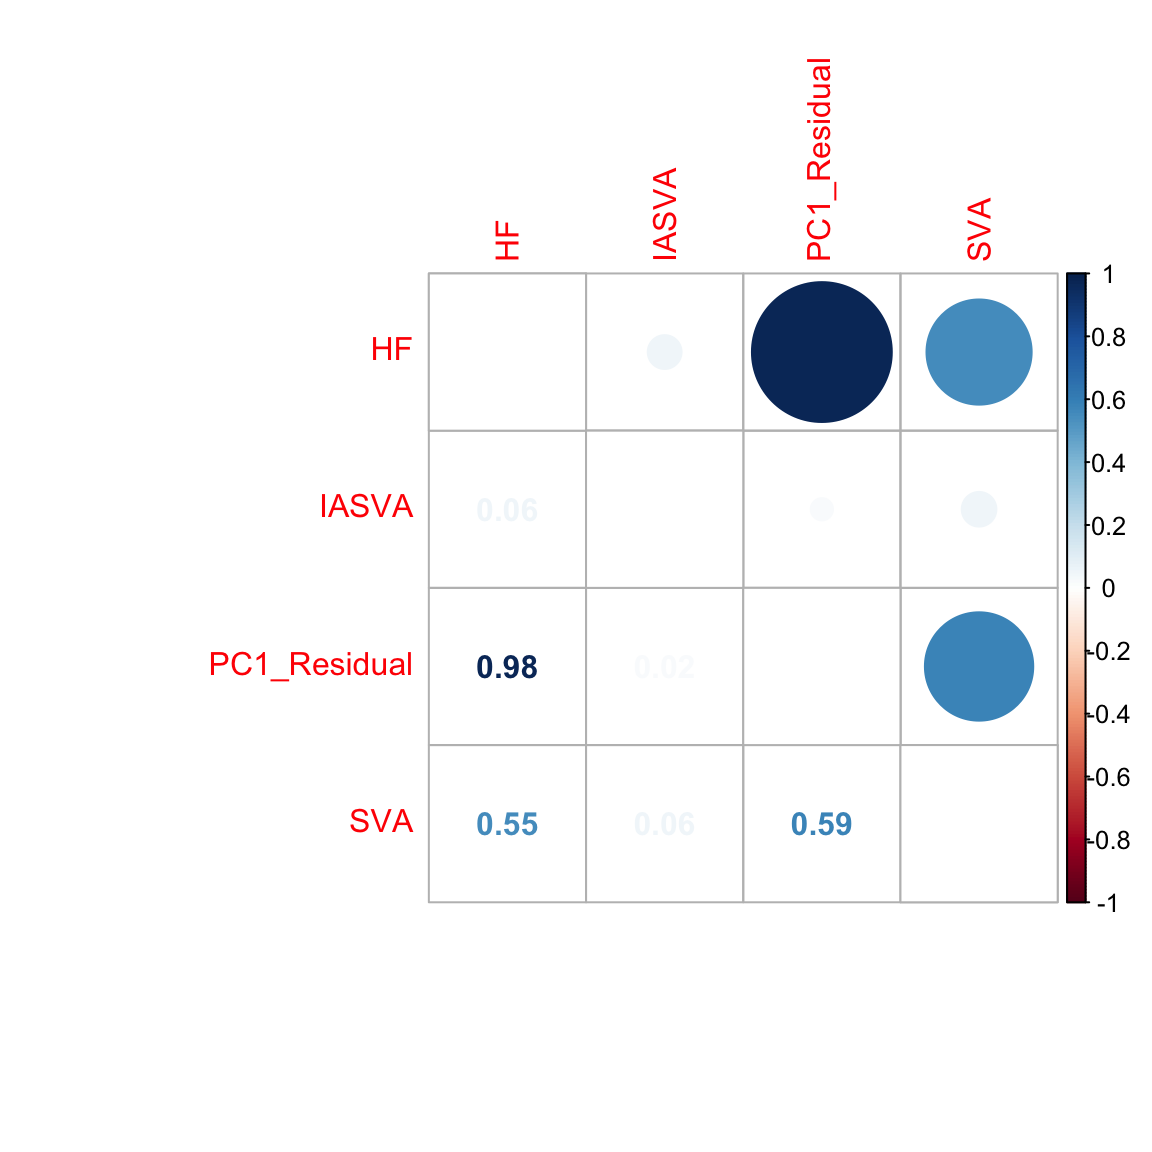
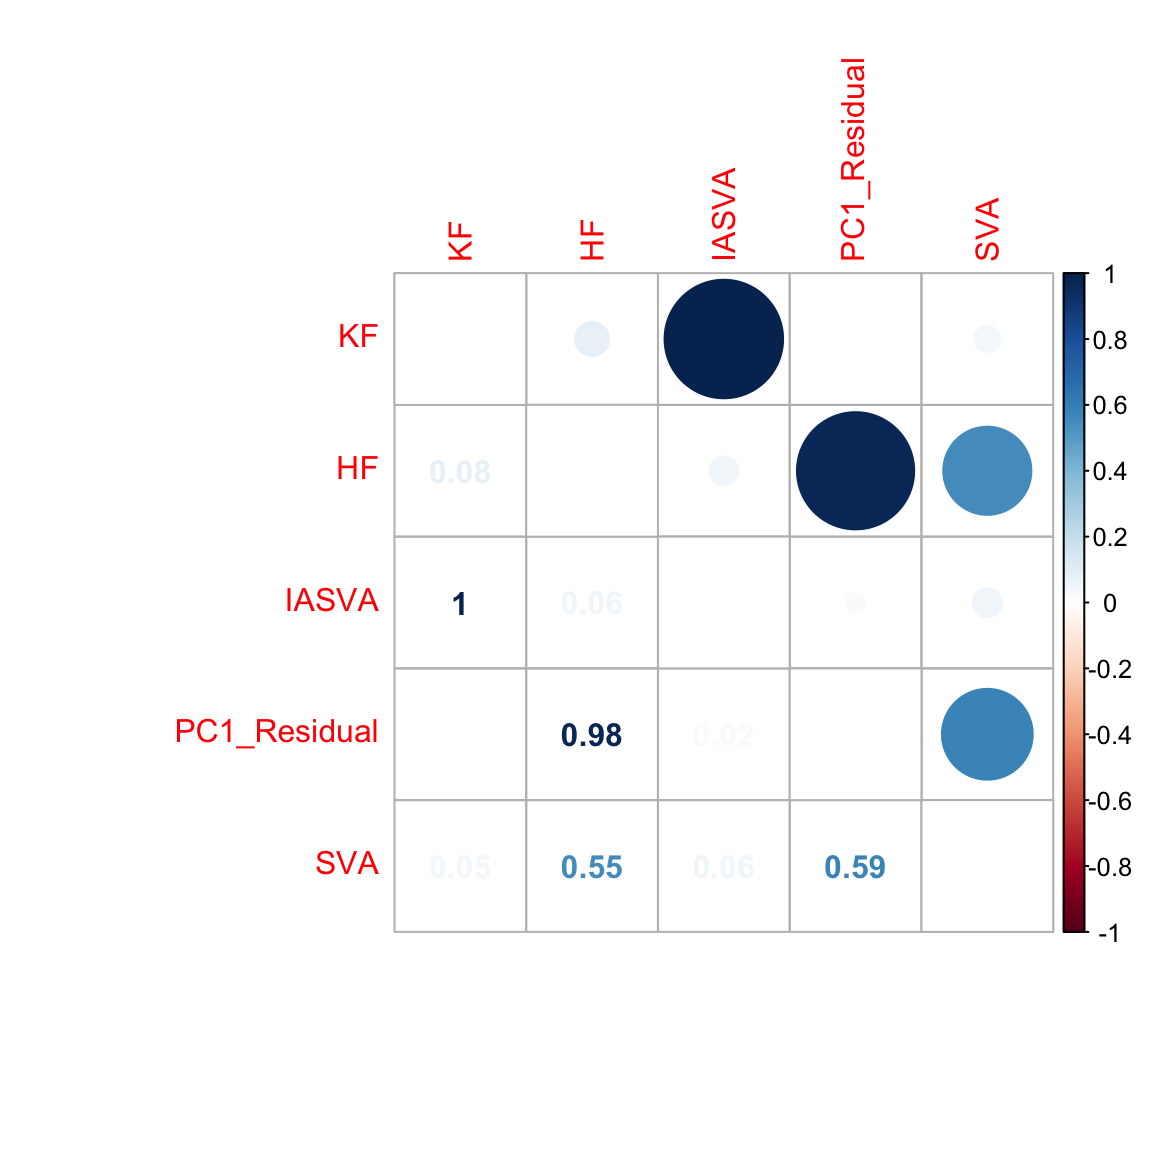
figures updated

diff --git a/docs/reviewer2_sim.html b/docs/reviewer2_sim.html
@@ -11,7 +11,7 @@
 
 <meta name="author" content="Donghyung Lee" />
 
-<meta name="date" content="2018-08-22" />
+<meta name="date" content="2018-08-27" />
 
 <title>Reviewer 2 Simulation</title>
 
@@ -209,7 +209,7 @@ div.section {
 
 <h1 class="title toc-ignore">Reviewer 2 Simulation</h1>
 <h4 class="author"><em>Donghyung Lee</em></h4>
-<h4 class="date"><em>2018-08-22</em></h4>
+<h4 class="date"><em>2018-08-27</em></h4>
 
 </div>
 
@@ -225,7 +225,7 @@ div.section {
 </ul>
 </div>
 
-<p><strong>Last updated:</strong> 2018-08-22</p>
+<p><strong>Last updated:</strong> 2018-08-27</p>
 <strong>workflowr checks:</strong> <small>(Click a bullet for more information)</small>
 <ul>
 <li>
@@ -249,7 +249,7 @@ div.section {
 </details>
 </li>
 <li>
-<p><details> <summary> <strong style="color:blue;">✔</strong> <strong>Repository version:</strong> <a href="https://github.com/dleelab/iasvaExamples/tree/17ebb0364f4b76ba44d101be572d065b84338d5f" target="_blank">17ebb03</a> </summary></p>
+<p><details> <summary> <strong style="color:blue;">✔</strong> <strong>Repository version:</strong> <a href="https://github.com/dleelab/iasvaExamples/tree/492eafb937bf0a4cccd4a4bd2d798bd400d644f7" target="_blank">492eafb</a> </summary></p>
 Great! You are using Git for version control. Tracking code development and connecting the code version to the results is critical for reproducibility. The version displayed above was the version of the Git repository at the time these results were generated. <br><br> Note that you need to be careful to ensure that all relevant files for the analysis have been committed to Git prior to generating the results (you can use <code>wflow_publish</code> or <code>wflow_git_commit</code>). workflowr only checks the R Markdown file, but you know if there are other scripts or data files that it depends on. Below is the status of the Git repository when the results were generated:
 <pre><code>
 Ignored files:
@@ -257,8 +257,11 @@ Ignored files:
     Ignored:    .Rhistory
     Ignored:    .Rproj.user/
     Ignored:    data/.DS_Store
+    Ignored:    docs/.DS_Store
+    Ignored:    docs/figure/.DS_Store
     Ignored:    inst/.DS_Store
     Ignored:    inst/doc/.DS_Store
+    Ignored:    output/.DS_Store
     Ignored:    vignettes/.DS_Store
 
 </code></pre>
@@ -288,6 +291,57 @@ Message
 </tr>
 </thead>
 <tbody>
+<tr>
+<td style="text-align:left;">
+Rmd
+</td>
+<td style="text-align:left;">
+<a href="https://github.com/dleelab/iasvaExamples/blob/492eafb937bf0a4cccd4a4bd2d798bd400d644f7/analysis/reviewer2_sim.Rmd" target="_blank">492eafb</a>
+</td>
+<td style="text-align:left;">
+dleelab
+</td>
+<td style="text-align:left;">
+2018-08-27
+</td>
+<td style="text-align:left;">
+figure number changed
+</td>
+</tr>
+<tr>
+<td style="text-align:left;">
+Rmd
+</td>
+<td style="text-align:left;">
+<a href="https://github.com/dleelab/iasvaExamples/blob/e042edfba8fbe7a06d2b01573c03579ff6d81cd0/analysis/reviewer2_sim.Rmd" target="_blank">e042edf</a>
+</td>
+<td style="text-align:left;">
+dleelab
+</td>
+<td style="text-align:left;">
+2018-08-27
+</td>
+<td style="text-align:left;">
+figure updated
+</td>
+</tr>
+<tr>
+<td style="text-align:left;">
+html
+</td>
+<td style="text-align:left;">
+<a href="https://cdn.rawgit.com/dleelab/iasvaExamples/5e29c04506c1303bb96adfec18e01215d3c089ff/docs/reviewer2_sim.html" target="_blank">5e29c04</a>
+</td>
+<td style="text-align:left;">
+dleelab
+</td>
+<td style="text-align:left;">
+2018-08-22
+</td>
+<td style="text-align:left;">
+reviewer2 sim updated.
+</td>
+</tr>
 <tr>
 <td style="text-align:left;">
 Rmd
@@ -461,9 +515,9 @@ abs(cor(sva.res[,1], unknown)) # 0.55
 abs(cor(sva.res[,1], known)) # close to zero.
 # [1] 0.04603016
 
-hf.mat &lt;- cbind(unknown, res$sv[,1], pr.out$x[,1], sva.res[,1])
-colnames(hf.mat) &lt;- c(&quot;HF&quot;, &quot;IASVA&quot;,&quot;PC1_Residual&quot;,&quot;SVA&quot;)
-corrplot.mixed(abs(cor(hf.mat)), tl.pos=&quot;lt&quot;)</code></pre>
+hf.mat1 &lt;- cbind(known, unknown, res$sv[,1], pr.out$x[,1], sva.res[,1])
+colnames(hf.mat1) &lt;- c(&quot;KF&quot;,&quot;HF&quot;,&quot;IASVA&quot;,&quot;PC1_Residual&quot;,&quot;SVA&quot;)
+corrplot.mixed(abs(cor(hf.mat1)), tl.pos=&quot;lt&quot;)</code></pre>
 <p><img src="figure/reviewer2_sim.Rmd/sim1-1.png" width="576" style="display: block; margin: auto;" /></p>
 <details> <summary><em>Expand here to see past versions of sim1-1.png:</em></summary>
 <table style="border-collapse:separate; border-spacing:5px;">
@@ -481,6 +535,17 @@ Date
 </tr>
 </thead>
 <tbody>
+<tr>
+<td style="text-align:left;">
+<a href="https://github.com/dleelab/iasvaExamples/blob/5e29c04506c1303bb96adfec18e01215d3c089ff/docs/figure/reviewer2_sim.Rmd/sim1-1.png" target="_blank">5e29c04</a>
+</td>
+<td style="text-align:left;">
+dleelab
+</td>
+<td style="text-align:left;">
+2018-08-22
+</td>
+</tr>
 <tr>
 <td style="text-align:left;">
 <a href="https://github.com/dleelab/iasvaExamples/blob/c241b04dac899407045051a04b7539237f4d183f/docs/figure/reviewer2_sim.Rmd/sim1-1.png" target="_blank">c241b04</a>
@@ -572,9 +637,9 @@ abs(cor(sva.res[,1], unknown)) # close to 1
 abs(cor(sva.res[,1], known)) # close to zero.
 # [1] 0.0007644251
 
-hf.mat &lt;- cbind(unknown, res$sv[,1], pr.out$x[,1], sva.res[,1])
-colnames(hf.mat) &lt;- c(&quot;HF&quot;, &quot;IASVA&quot;,&quot;PC1_Residual&quot;,&quot;SVA&quot;)
-corrplot.mixed(abs(cor(hf.mat)), tl.pos=&quot;lt&quot;)</code></pre>
+hf.mat2 &lt;- cbind(known, unknown, res$sv[,1], pr.out$x[,1], sva.res[,1])
+colnames(hf.mat2) &lt;- c(&quot;KF&quot;,&quot;HF&quot;,&quot;IASVA&quot;,&quot;PC1_Residual&quot;,&quot;SVA&quot;)
+corrplot.mixed(abs(cor(hf.mat2)), tl.pos=&quot;lt&quot;)</code></pre>
 <p><img src="figure/reviewer2_sim.Rmd/sim2-1.png" width="576" style="display: block; margin: auto;" /></p>
 <details> <summary><em>Expand here to see past versions of sim2-1.png:</em></summary>
 <table style="border-collapse:separate; border-spacing:5px;">
@@ -592,6 +657,17 @@ Date
 </tr>
 </thead>
 <tbody>
+<tr>
+<td style="text-align:left;">
+<a href="https://github.com/dleelab/iasvaExamples/blob/5e29c04506c1303bb96adfec18e01215d3c089ff/docs/figure/reviewer2_sim.Rmd/sim2-1.png" target="_blank">5e29c04</a>
+</td>
+<td style="text-align:left;">
+dleelab
+</td>
+<td style="text-align:left;">
+2018-08-22
+</td>
+</tr>
 <tr>
 <td style="text-align:left;">
 <a href="https://github.com/dleelab/iasvaExamples/blob/c241b04dac899407045051a04b7539237f4d183f/docs/figure/reviewer2_sim.Rmd/sim2-1.png" target="_blank">c241b04</a>
@@ -698,9 +774,9 @@ abs(cor(sva.res[,1], unknown)) # close to 1
 abs(cor(sva.res[,1], known)) # close to zero. 
 # [1] 0.05326845
 
-hf.mat &lt;- cbind(unknown, res$sv[,1], pr.out$x[,1], sva.res[,1])
-colnames(hf.mat) &lt;- c(&quot;HF&quot;, &quot;IA-SVA&quot;,&quot;PC1_Residual&quot;,&quot;SVA&quot;)
-corrplot.mixed(abs(cor(hf.mat)), tl.pos=&quot;lt&quot;)</code></pre>
+hf.mat3 &lt;- cbind(known, unknown, res$sv[,1], pr.out$x[,1], sva.res[,1])
+colnames(hf.mat3) &lt;- c(&quot;KF&quot;,&quot;HF&quot;,&quot;IASVA&quot;,&quot;PC1_Residual&quot;,&quot;SVA&quot;)
+corrplot.mixed(abs(cor(hf.mat3)), tl.pos=&quot;lt&quot;)</code></pre>
 <p><img src="figure/reviewer2_sim.Rmd/sim1_corrected-1.png" width="576" style="display: block; margin: auto;" /></p>
 <details> <summary><em>Expand here to see past versions of sim1_corrected-1.png:</em></summary>
 <table style="border-collapse:separate; border-spacing:5px;">
@@ -718,6 +794,17 @@ Date
 </tr>
 </thead>
 <tbody>
+<tr>
+<td style="text-align:left;">
+<a href="https://github.com/dleelab/iasvaExamples/blob/5e29c04506c1303bb96adfec18e01215d3c089ff/docs/figure/reviewer2_sim.Rmd/sim1_corrected-1.png" target="_blank">5e29c04</a>
+</td>
+<td style="text-align:left;">
+dleelab
+</td>
+<td style="text-align:left;">
+2018-08-22
+</td>
+</tr>
 <tr>
 <td style="text-align:left;">
 <a href="https://github.com/dleelab/iasvaExamples/blob/c241b04dac899407045051a04b7539237f4d183f/docs/figure/reviewer2_sim.Rmd/sim1_corrected-1.png" target="_blank">c241b04</a>
@@ -821,10 +908,40 @@ abs(cor(sva.res[,1], unknown)) # cor = 0.7
 abs(cor(sva.res[,1], known)) # close to zero.
 # [1] 0.07688679
 
-hf.mat &lt;- cbind(unknown, res$sv[,1], pr.out$x[,1], sva.res[,1])
-colnames(hf.mat) &lt;- c(&quot;HF&quot;, &quot;IA-SVA&quot;,&quot;PC1_Residual&quot;,&quot;SVA&quot;)
-corrplot.mixed(abs(cor(hf.mat)), tl.pos=&quot;lt&quot;)</code></pre>
+hf.mat4 &lt;- cbind(known, unknown, res$sv[,1], pr.out$x[,1], sva.res[,1])
+colnames(hf.mat4) &lt;- c(&quot;KF&quot;,&quot;HF&quot;,&quot;IASVA&quot;,&quot;PC1_Residual&quot;,&quot;SVA&quot;)
+corrplot.mixed(abs(cor(hf.mat4)), tl.pos=&quot;lt&quot;)</code></pre>
 <p><img src="figure/reviewer2_sim.Rmd/sim_corrected_high_corr-1.png" width="576" style="display: block; margin: auto;" /></p>
+<details> <summary><em>Expand here to see past versions of sim_corrected_high_corr-1.png:</em></summary>
+<table style="border-collapse:separate; border-spacing:5px;">
+<thead>
+<tr>
+<th style="text-align:left;">
+Version
+</th>
+<th style="text-align:left;">
+Author
+</th>
+<th style="text-align:left;">
+Date
+</th>
+</tr>
+</thead>
+<tbody>
+<tr>
+<td style="text-align:left;">
+<a href="https://github.com/dleelab/iasvaExamples/blob/5e29c04506c1303bb96adfec18e01215d3c089ff/docs/figure/reviewer2_sim.Rmd/sim_corrected_high_corr-1.png" target="_blank">5e29c04</a>
+</td>
+<td style="text-align:left;">
+dleelab
+</td>
+<td style="text-align:left;">
+2018-08-22
+</td>
+</tr>
+</tbody>
+</table>
+<p></details></p>
 </div>
 <div id="more-challenging-scenario." class="section level2">
 <h2>More challenging scenario.</h2>
@@ -915,10 +1032,51 @@ abs(cor(sva.res[,1], unknown)) # cor = 0.7
 abs(cor(sva.res[,1], known)) # close to zero.
 # [1] 0.09633978
 
-hf.mat &lt;- cbind(unknown, res$sv[,1], pr.out$x[,1], sva.res[,1])
-colnames(hf.mat) &lt;- c(&quot;HF&quot;, &quot;IA-SVA&quot;,&quot;PC1_Residual&quot;,&quot;SVA&quot;)
-corrplot.mixed(abs(cor(hf.mat)), tl.pos=&quot;lt&quot;)</code></pre>
+hf.mat5 &lt;- cbind(known, unknown, res$sv[,1], pr.out$x[,1], sva.res[,1])
+colnames(hf.mat5) &lt;- c(&quot;KF&quot;,&quot;HF&quot;,&quot;IASVA&quot;,&quot;PC1_Residual&quot;,&quot;SVA&quot;)
+corrplot.mixed(abs(cor(hf.mat5)), tl.pos=&quot;lt&quot;)</code></pre>
 <p><img src="figure/reviewer2_sim.Rmd/sim_corrected_high_corr_challenging-1.png" width="576" style="display: block; margin: auto;" /></p>
+<details> <summary><em>Expand here to see past versions of sim_corrected_high_corr_challenging-1.png:</em></summary>
+<table style="border-collapse:separate; border-spacing:5px;">
+<thead>
+<tr>
+<th style="text-align:left;">
+Version
+</th>
+<th style="text-align:left;">
+Author
+</th>
+<th style="text-align:left;">
+Date
+</th>
+</tr>
+</thead>
+<tbody>
+<tr>
+<td style="text-align:left;">
+<a href="https://github.com/dleelab/iasvaExamples/blob/5e29c04506c1303bb96adfec18e01215d3c089ff/docs/figure/reviewer2_sim.Rmd/sim_corrected_high_corr_challenging-1.png" target="_blank">5e29c04</a>
+</td>
+<td style="text-align:left;">
+dleelab
+</td>
+<td style="text-align:left;">
+2018-08-22
+</td>
+</tr>
+</tbody>
+</table>
+<p></details></p>
+<pre class="r"><code>#par(oma = c(0, 2, 2, 2))
+pdf(&quot;output/FigureL2.pdf&quot;, width=6,height=9)
+par(mfrow=c(3,2))
+corrplot.mixed(abs(cor(hf.mat1)), tl.pos=&quot;lt&quot;)
+corrplot.mixed(abs(cor(hf.mat2)), tl.pos=&quot;lt&quot;)
+corrplot.mixed(abs(cor(hf.mat3)), tl.pos=&quot;lt&quot;)
+corrplot.mixed(abs(cor(hf.mat4)), tl.pos=&quot;lt&quot;)
+corrplot.mixed(abs(cor(hf.mat5)), tl.pos=&quot;lt&quot;)
+dev.off()
+# quartz_off_screen 
+#                 2</code></pre>
 </div>
 <div id="session-information" class="section level2">
 <h2>Session information</h2>
@@ -947,23 +1105,24 @@ corrplot.mixed(abs(cor(hf.mat)), tl.pos=&quot;lt&quot;)</code></pre>
 # [11] BiocGenerics_0.26.0         sva_3.28.0                 
 # [13] BiocParallel_1.14.2         genefilter_1.62.0          
 # [15] mgcv_1.8-23                 nlme_3.1-137               
-# [17] iasva_0.99.3               
+# [17] iasva_0.99.3                workflowr_1.0.1            
+# [19] rmarkdown_1.9              
 # 
 # loaded via a namespace (and not attached):
 #  [1] splines_3.5.0          lattice_0.20-35        htmltools_0.3.6       
 #  [4] yaml_2.1.19            blob_1.1.1             XML_3.98-1.11         
 #  [7] survival_2.42-3        R.oo_1.22.0            DBI_1.0.0             
 # [10] R.utils_2.6.0          bit64_0.9-7            GenomeInfoDbData_1.1.0
-# [13] stringr_1.3.1          zlibbioc_1.26.0        workflowr_1.0.1       
-# [16] R.methodsS3_1.7.1      evaluate_0.10.1        memoise_1.1.0         
-# [19] knitr_1.20             irlba_2.3.2            AnnotationDbi_1.42.1  
-# [22] Rcpp_0.12.17           xtable_1.8-2           backports_1.1.2       
-# [25] annotate_1.58.0        XVector_0.20.0         bit_1.1-14            
-# [28] digest_0.6.15          stringi_1.2.2          grid_3.5.0            
-# [31] rprojroot_1.3-2        tools_3.5.0            bitops_1.0-6          
-# [34] magrittr_1.5           RCurl_1.95-4.10        RSQLite_2.1.1         
-# [37] cluster_2.0.7-1        whisker_0.3-2          Matrix_1.2-14         
-# [40] rmarkdown_1.9          git2r_0.21.0           compiler_3.5.0</code></pre>
+# [13] stringr_1.3.1          zlibbioc_1.26.0        R.methodsS3_1.7.1     
+# [16] evaluate_0.10.1        memoise_1.1.0          knitr_1.20            
+# [19] irlba_2.3.2            AnnotationDbi_1.42.1   Rcpp_0.12.17          
+# [22] xtable_1.8-2           backports_1.1.2        annotate_1.58.0       
+# [25] XVector_0.20.0         bit_1.1-14             digest_0.6.15         
+# [28] stringi_1.2.2          grid_3.5.0             rprojroot_1.3-2       
+# [31] tools_3.5.0            bitops_1.0-6           magrittr_1.5          
+# [34] RCurl_1.95-4.10        RSQLite_2.1.1          cluster_2.0.7-1       
+# [37] whisker_0.3-2          Matrix_1.2-14          git2r_0.21.0          
+# [40] compiler_3.5.0</code></pre>
 </div>
 
 <!-- Adjust MathJax settings so that all math formulae are shown using
